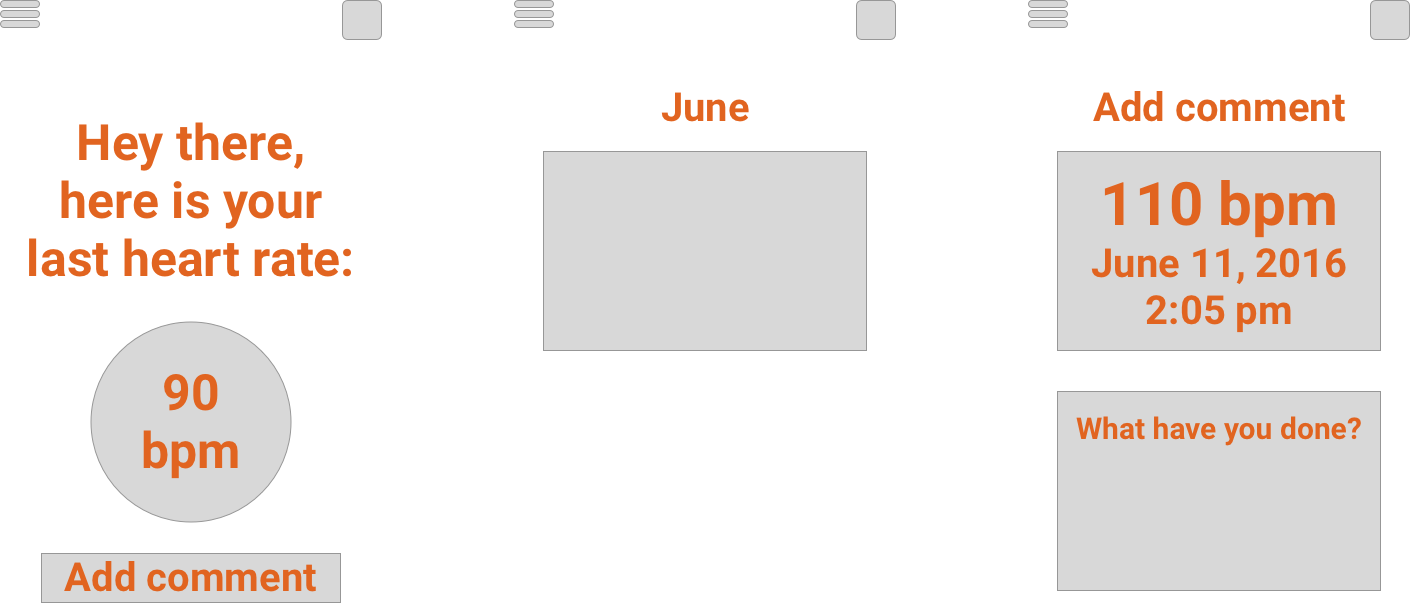
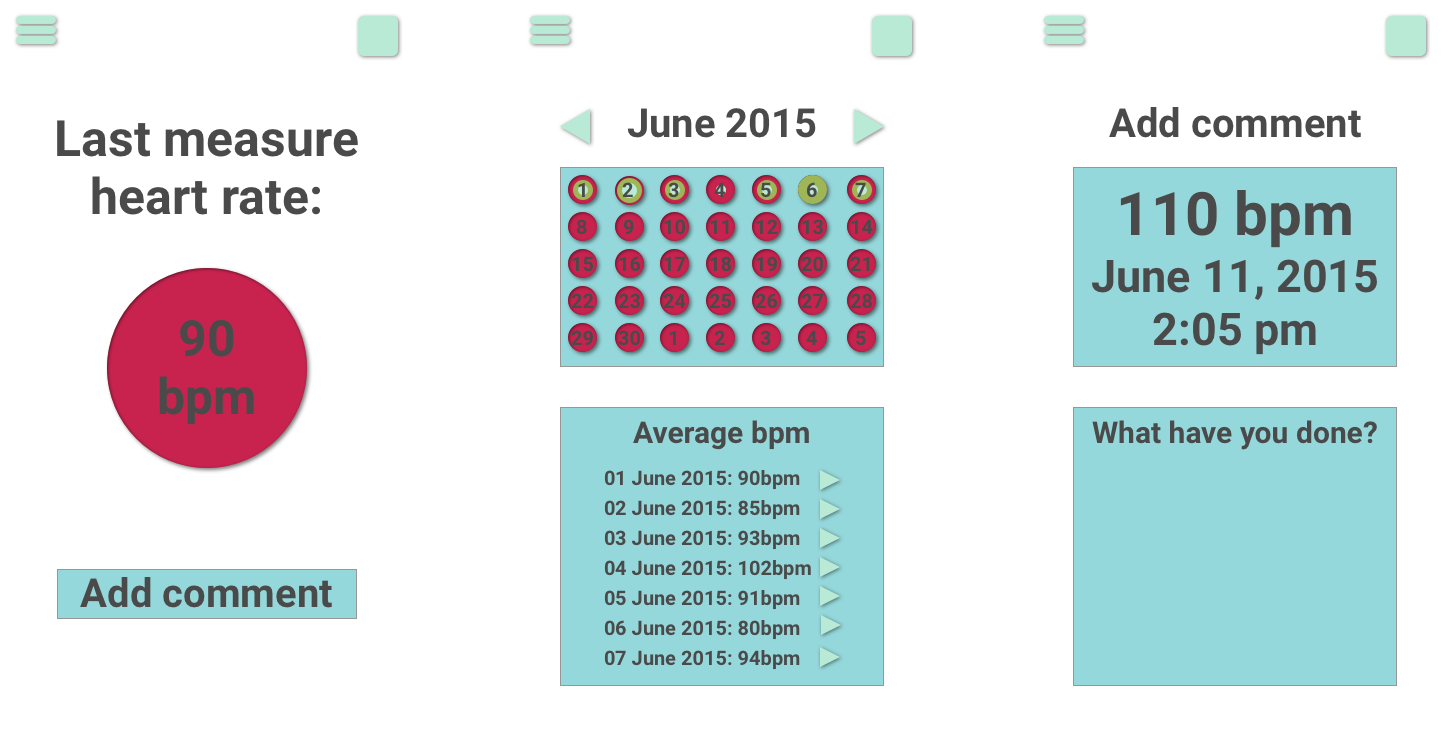
add color platte on heart rate app

diff --git a/project-heart-app.html b/project-heart-app.html
@@ -40,9 +40,9 @@ permalink: heart-rate-app
     <h3>The Colors</h3>
     <p>After everything has its place and purpose you can start making it pretty. In my opinion, the looks are as important as the functions for a product to succeed. Without the necessary functions you can’t use the product properly, but without it looking appealing, you don’t want to use it. Both parts can be a big problem. So why not make it pretty? We started with a nice color palette. I think it is important to reduce your palette to 5 colors or less. This way you can alternate and differentiate without looking like you took too many pills while working on the colors. Decide on one basic color for the background and built on that.
     </p>
-    <!-- <div class="box-subproject-img">
-      <img src="img/heartrate-color.png" alt="">
-    </div> -->
+    <div class="box-subproject-img">
+      <img src="img/heartrate-color.png" alt="Color Palette">
+    </div>
 
     <h3>The Outcome</h3>
     <p>Besides the iPhone App we decided on building an Apple Watch App. This way you can comment on a measurement right away. Just tap on the icons or dictate your current activity.</p>
